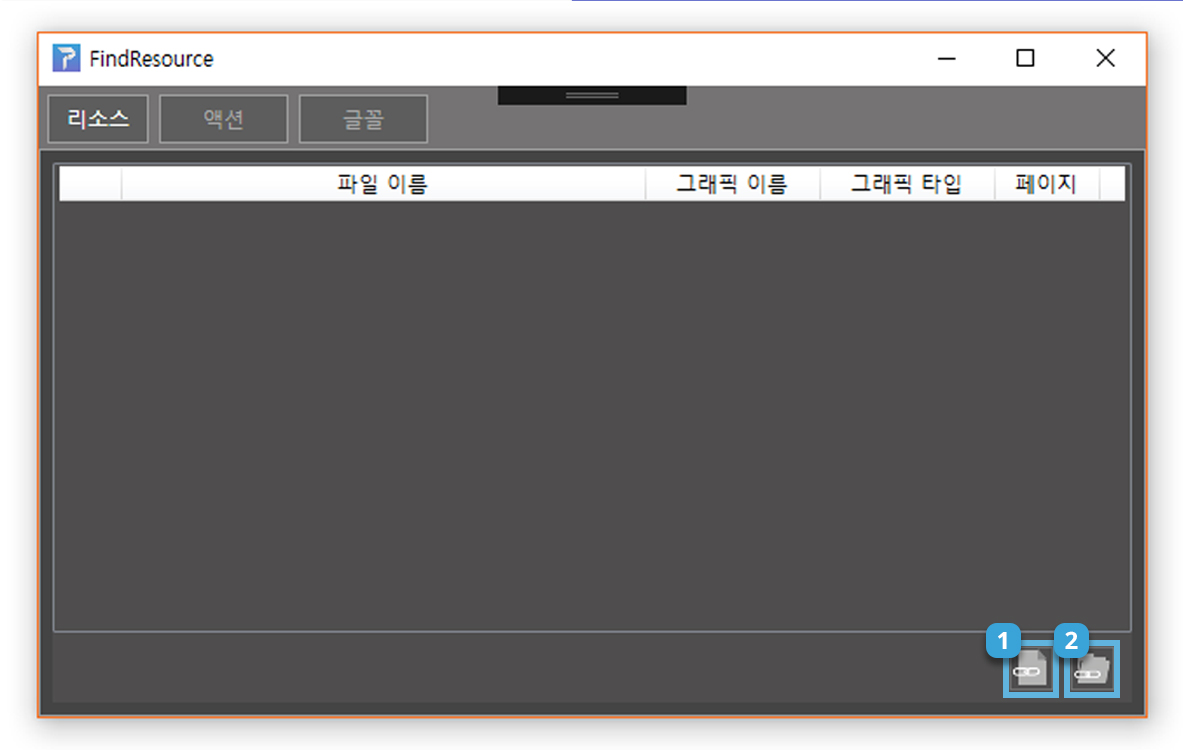
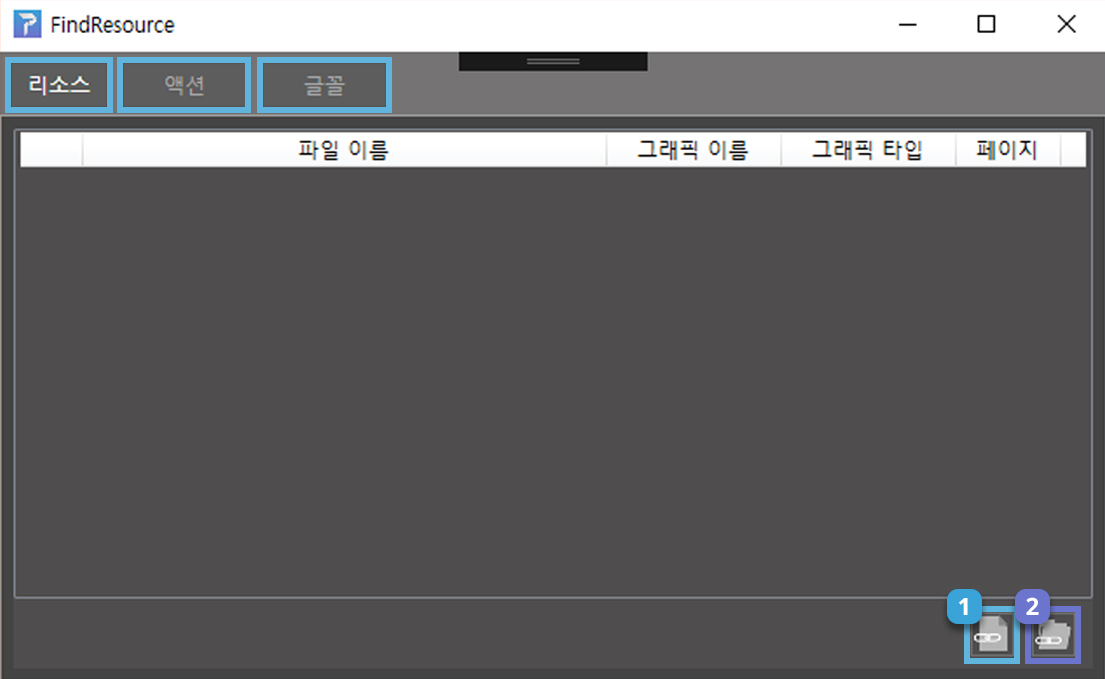
190320 정문희 (오전)수정중입니다.

Changed region(s): [[0.0, 0.0, 1.0, 1.0]]

diff --git a/3basic-file-menu.md b/3basic-file-menu.md
@@ -33,42 +33,39 @@
 작업한 문서를 저장합니다. 페이지빌더는 자체의 파일 포맷으로 저장합니다. 확장자는 .pb입니다.
 
 ### ⑥ 패키지 파일로 저장
+
 저장 위치와 폴더 이름을 설정한 후 저장을 누르면 _pkg.pb와
 모든 리소스들이 폴더에 저장됩니다.
 
 ### ⑦ 앱 만들기
 
-[comment]: # (원래 Ebook/cms 내용이었는데, '앱만들기' 내용으로 수정 부탁드립니다.)
 
-"패키지 저장하기" 와 "HTML5 내보내기"를 한번에 수행합니다.<br/>
-[파일명]_Html 폴더, [파일명]_Html zip파일, [파일명]_Package 폴더,
-[파일명]_Package zip파일 을 생성됩니다.
+엡만들기 내용으로 수정하기
 
 ### ⑧ 앱 결과 보기
 
-[comment]: # (내용 수정 부탁드립니다.-원본: pdf 불러오기)
 
-PDF불러오기 메뉴에서는 pdf 파일을 불러올 수 있습니다.
-불러온 페이지는 페이지빌더의 개별 페이지에 배치됩니다.
+앱 결과 보기 내용 적기
 
 
 
 ### ⑨ PDF가져오기
 
-[comment]: # (pdf 불러오기 내용을 붙여넣었습니다.)
-
-PDF불러오기 메뉴에서는 pdf 파일을 불러올 수 있습니다.
-불러온 페이지는 페이지빌더의 개별 페이지에 배치됩니다.
+PDF가져오기 메뉴에서는 pdf 파일을 불러올 수 있습니다.
+가져온 페이지는 페이지빌더의 개별 페이지에 배치됩니다.
 
 ![pdf_bring](./figure/03-3.jpg)
 
 ### ⑩ 내보내기
 
-[comment]: # (썸네일 내보내기/html 내보내기 기능 내용 추가부탁드립니다.)
 
-페이지빌더의 버전 정보를 확인할 수 있습니다.
+"썸네일 저장하기" 와 "HTML5 내보내기"를 한번에 수행합니다.<br/>
+[파일명]_Html 폴더, [파일명]_Html zip파일, [파일명]_Package 폴더,
+[파일명]_Package zip파일 을 생성됩니다.
 
-### ⑩ 환경설정 / 페이지빌더에 관하여
+내용 수정하기 
+
+### ⑩ 페이지빌더에 관하여 / 환경설정
 
 페이지빌더의 버전 정보를 확인할 수 있습니다.
 

diff --git a/4control-panel.md b/4control-panel.md
@@ -68,14 +68,12 @@
 ### ⑦ 문서
 
 - INFO: 페이지 빌더의 버전을 확인할 수 있습니다.
-- 유실항목 보기: 유실된 파일, 액션, 폰트 목록을 확인할 수 있습니다.
+- 유실항목 보기: 유실된 리소스, 액션, 글꼴 목록을 확인할 수 있습니다.
 
 <img src='./figure/4-5.jpg' width="500" >
 
-- 왼쪽 아이콘 - 유실된 파일을 다른 파일로 대치합니다.
-- 오른쪽 아이콘 - 폴더 전체의 파일들을 같은 이름의 파일로 대치합니다
-
-[comment]: # ( 1번, 2번으로 수정하기)
+- 1번 아이콘 - 유실된 파일을 다른 파일로 대치합니다.
+- 2번 아이콘 - 폴더 전체의 파일들을 같은 이름의 파일로 대치합니다
 
 ----------------------
 ## 삽입 모드
@@ -97,10 +95,6 @@
 ### [텍스트 박스 인스펙터]
 
 <img src='./figure/4-9.jpg'>
-
-
-
-
 
 여기에서 폰트의 종류, 폰트 크기 등의 텍스트 스타일과 인덴테이션, 행 간격 등 단락 스타일을 지정할 수 있습니다.
 
